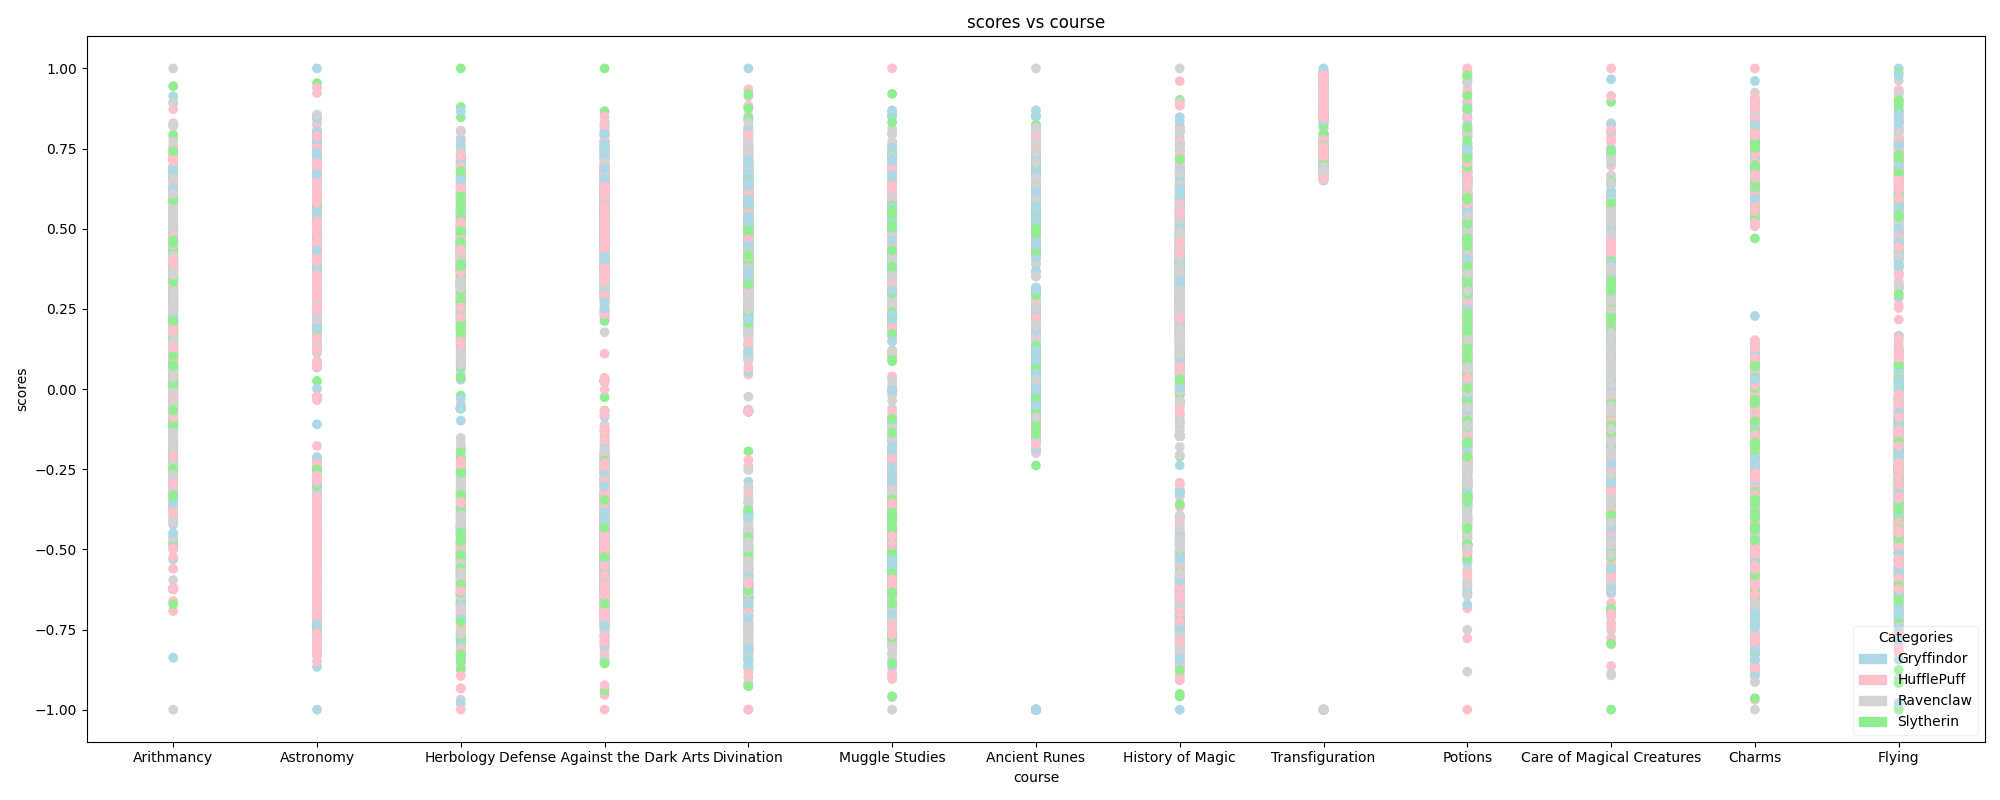
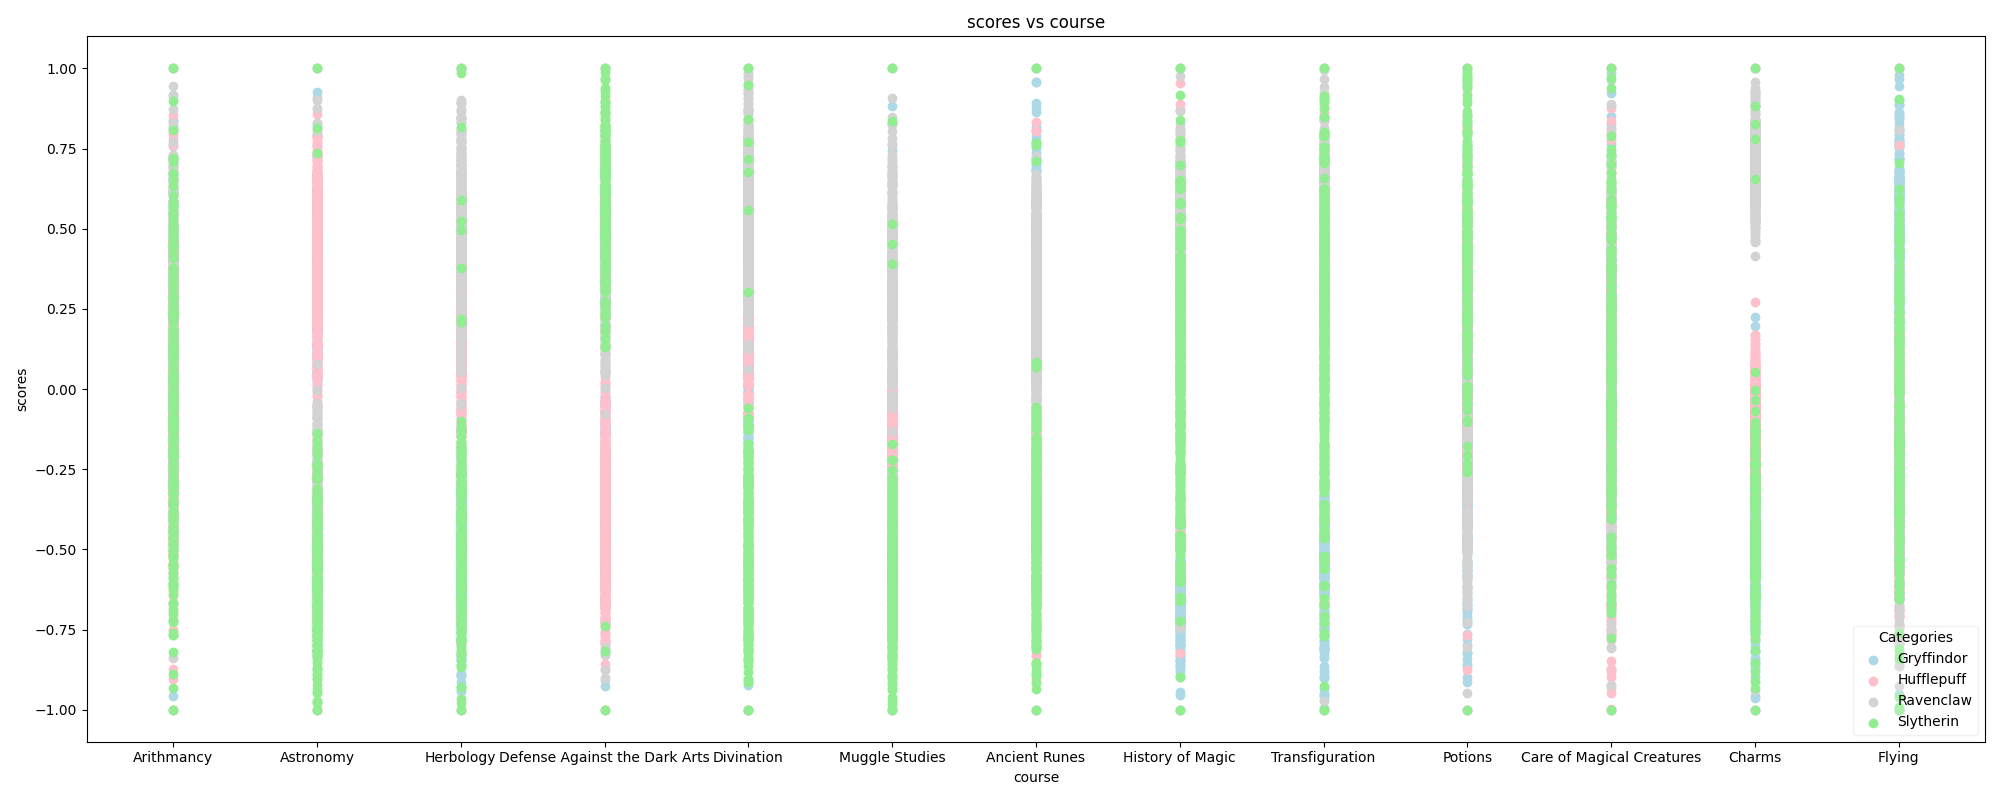
fix scatter plot with colors as houses

diff --git a/exercises/scatter_plot.py b/exercises/scatter_plot.py
@@ -1,7 +1,7 @@
 # scores / standard deviation / ranges
 from pandas import DataFrame, concat
 from matplotlib.pyplot import savefig, tight_layout, subplots, \
-                              xlabel, ylabel, title, legend
+                              xlabel, ylabel, title, legend, scatter
 from matplotlib.patches import Patch
 from utils_figures import load, normalize_column
 from numpy import repeat
@@ -11,45 +11,40 @@ def get_scatter_plot(df: DataFrame) -> any:
     """Disay a scatter plot with colored points, student
     number as x-axis vs student score as y-axis. Each
     color representing the house of the student."""
-    df_house = df.iloc[:, [0]]
 
-    df_courses = df.iloc[:, 5:]
+    ndf = df.sort_values(by='Hogwarts House')
 
-    min_value = df_courses.min()
-    max_value = df_courses.max()
-    df_courses = normalize_column(df_courses, min_value, max_value)
-    grouped = concat([df_house, df_courses], axis=1)
+    houses = ["Gryffindor", "Hufflepuff", "Ravenclaw", "Slytherin"]
+    colors = ["lightblue", "pink", "lightgray", "lightgreen"]
 
-    houses = grouped['Hogwarts House']
-
-    courses = repeat(df_courses.columns, 1600)
-    courses_values = [x for sublist in df_courses.values.T for x in sublist]
-
-    colors = {"Gryffindor": "lightblue", "Hufflepuff": "pink",
-              "Ravenclaw": "lightgray", "Slytherin": "lightgreen"}
     fig, ax = subplots(figsize=(20, 8))
 
-    ax.scatter(courses, courses_values, c=[colors[category] for
-                                           category in repeat(houses, 13)])
+    for i, (house, color) in enumerate(zip(houses, colors)):
+        df = ndf[ndf['Hogwarts House'] == houses[i]]
 
-    blue_patch = Patch(color='lightblue', label='Gryffindor')
-    pink_patch = Patch(color='pink', label='HufflePuff')
-    gray_patch = Patch(color='lightgray', label='Ravenclaw')
-    green_patch = Patch(color='lightgreen', label='Slytherin')
+        df_house = df.iloc[:, [0]]
+        df_courses = df.iloc[:, 5:]
+        
+        min_value = df_courses.min()
+        max_value = df_courses.max()
+        df_courses = normalize_column(df_courses, min_value, max_value)
+        grouped = concat([df_house, df_courses], axis=1)
+        nhouses = grouped['Hogwarts House']
+        nhouses = repeat(nhouses, 13).values
 
-    legend(loc="lower right", title='Categories', handles=[
-                                                           blue_patch,
-                                                           pink_patch,
-                                                           gray_patch,
-                                                           green_patch],
-           framealpha=0.25)
+        courses = repeat(df_courses.columns, grouped.shape[0])
+        courses_values = [x for sublist in df_courses.values.T for x in sublist]
 
-    # Add the legend to the plot with custom colors and labels
-    xlabel("course")
-    ylabel("scores")
-    title("scores vs course")
-    tight_layout()
-    savefig("scatterplot")
+        scatter(courses, courses_values, label=house, c=color)
+
+        legend(loc="lower right", title='Categories', framealpha=0.25)
+
+        # Add the legend to the plot with custom colors and labels
+        xlabel("course")
+        ylabel("scores")
+        title("scores vs course")
+        tight_layout()
+        savefig("scatterplot")
 
 
 if __name__ == "__main__":

diff --git a/exercises/describe.py b/exercises/describe.py
@@ -56,6 +56,6 @@ def print_dataframe(df: DataFrame) -> any:
 if __name__ == "__main__":
     try:
         print_dataframe(load("../dataset_train.csv"))
-        print_dataframe(load("../dataset_test_completed.csv"))
+        # print_dataframe(load("../dataset_test_completed.csv"))
     except AssertionError as error:
         print(f"{error}")
